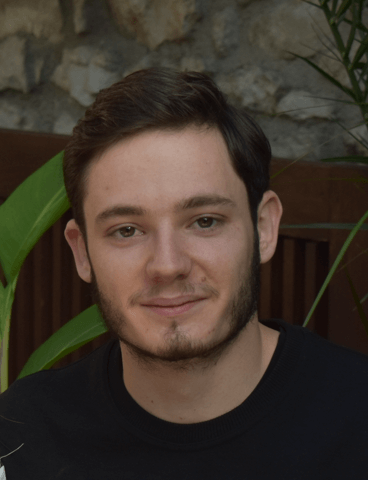
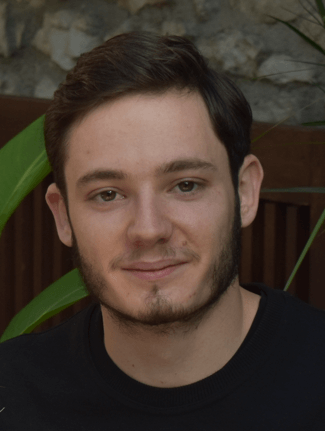
feat: add final positioning and adjustments to elements as well as change assets to better fit page positioning

diff --git a/src/style.css b/src/style.css
@@ -14,6 +14,7 @@ html,
 body {
 	width: 100%;
 	font-family: Roboto;
+	color: rgb(73, 73, 73);
 	background-color: hsl(0, 0%, 100%);
 
 	display: flex;
@@ -24,6 +25,7 @@ body {
 h1, h2, h3, h4, h5, h6 {
 	font-family: PlayfairDisplay, "Times New Roman", Times, serif;
 	letter-spacing: 0.8px;
+	color: black;
 }
 
 a {
@@ -40,6 +42,7 @@ header {
 	width: 100%;
 	position: relative;
 	z-index: 1;
+	margin-bottom: 3rem;
 
 	display: flex;
 	justify-content: center;
@@ -59,28 +62,35 @@ header::before {
 }
 
 .header-wrapper {
+	margin-top: 3rem;
 	max-width: 1000px;
 	display: flex;
 }
 
 .main-pic-cont {
 	position: relative;
+	box-shadow: 1px 1px 8px 2px rgba(0,0,0,0.40);
+}
+
+.main-pic-cont > img {
+	max-width: 300px;
+	display: block;
 }
 
 .main-pic-cont > span {
 	font-family: PlayfairDisplay, "Times New Roman", Times, serif;
-	font-size: 2rem;
-	letter-spacing: 1px;
+	font-size: 1.9rem;
+	letter-spacing: 0.8px;
 	color: white;
 	position: absolute;
-	bottom: 12px;
-	left: 1.3rem;
+	bottom: 10px;
+	left: 1rem;
 }
 
 .about-me-cont {
 	background-color: white;
-	padding: 1rem;
-	box-shadow: 6px 6px 15px -3px rgba(0,0,0,0.48);
+	padding: 2rem;
+	box-shadow: 1px 1px 8px 2px rgba(0,0,0,0.19);
 
 	align-self: center;
 	display: flex;
@@ -98,16 +108,26 @@ header::before {
 	display: flex;
 	align-items: center;
 	column-gap: 12px;
+}
+
+.about-me-icons > a,
+.about-me-icons > img,
+.icon-cont > img {
 	cursor: pointer;
 }
 
 main {
 	width: 100%;
 	max-width: 1000px;
+	margin-bottom: 5rem;
 }
 
 .my-work {
 	width: 100%;
+}
+
+.my-work > h2 {
+	font-size: 2rem;
 }
 
 .projects {
@@ -120,11 +140,15 @@ main {
 }
 
 .proj-cont {
-	background-color: white;
+	box-shadow: 1px 1px 8px 2px rgba(0,0,0,0.19);
 }
 
 .proj-cont > img {
 	width: 100%;
+}
+
+.proj-info {
+	margin: 0.5rem 1rem;
 }
 
 .proj-name-cont {
@@ -138,9 +162,15 @@ main {
 	flex: 1;
 }
 
+.proj-name-cont > img {
+	margin-left: 10px;
+	cursor: pointer;
+}
+
 footer {
 	width: 100%;
-	background: linear-gradient(180deg, rgba(161,146,202,1) 0%, rgba(186,168,230,1) 50%, rgba(255,255,255,1) 100%);
+	color: white;
+	background: linear-gradient(180deg, rgb(69, 116, 209) 0%, rgb(112, 143, 207) 60%, rgb(224, 200, 243) 100%);
 	display: flex;
 	justify-content: center;
 }
@@ -148,6 +178,8 @@ footer {
 .footer-wrapper {
 	width: 100%;
 	max-width: 1000px;
+	margin: 2rem 0;
+
 	display: flex;
 	justify-content: center;
 }
@@ -156,12 +188,39 @@ footer {
 	flex: 1;
 }
 
+.contact-cont > h2 {
+	margin-top: 0;
+	font-size: 2rem;
+	color: white;
+}
+
+.contact-cont > p,
+.address-cont {
+	margin-bottom: 1.5rem;
+}
+
 .phone-cont,
 .email-cont {
+	margin-bottom: 10px;
+
 	display: flex;
 	align-items: center;
 }
 
+.phone-cont > img,
+.email-cont > img {
+	margin-right: 14px;
+}
+
+.icon-cont {
+	margin-top: 2rem;
+
+	align-self: flex-end;
+	display: flex;
+	align-items: center;
+	column-gap: 12px;
+}
+
 .footer-wrapper > img {
-	width: 400px;
+	max-width: 400px;
 }

diff --git a/src/index.html b/src/index.html
@@ -25,7 +25,7 @@
               />
             </a>
             <img
-              src="https://cdn.jsdelivr.net/gh/devicons/devicon@latest/icons/linkedin/linkedin-original.svg"
+              src="https://cdn.jsdelivr.net/gh/devicons/devicon@latest/icons/linkedin/linkedin-plain.svg"
               width="30"
               height="30"
               alt="linkedin"
@@ -162,8 +162,8 @@
           <p>Please get in touch if you think our <br>
           work could be mutually beneficial!</p>
           <div class="address-cont">
-            <p>22 Random Street</p>
-            <p>Belgrade, Serbia</p>
+            <p>22 Random Street <br>
+            Belgrade, Serbia</p>
           </div>
           <div class="phone-cont">
             <img src="../assets/icons/phone.svg" alt="phone" width="30" height="30">
@@ -183,7 +183,7 @@
               />
             </a>
             <img
-              src="https://cdn.jsdelivr.net/gh/devicons/devicon@latest/icons/linkedin/linkedin-original.svg"
+              src="https://cdn.jsdelivr.net/gh/devicons/devicon@latest/icons/linkedin/linkedin-plain.svg"
               width="35"
               height="35"
               alt="linkedin"
@@ -196,7 +196,7 @@
             />
           </div>
         </div>
-        <img src="../assets/contact.jpg" alt="Dimitrije Markovic">
+        <img src="../assets/contact.png" alt="Dimitrije Markovic">
       </div>
     </footer>
   </body>
